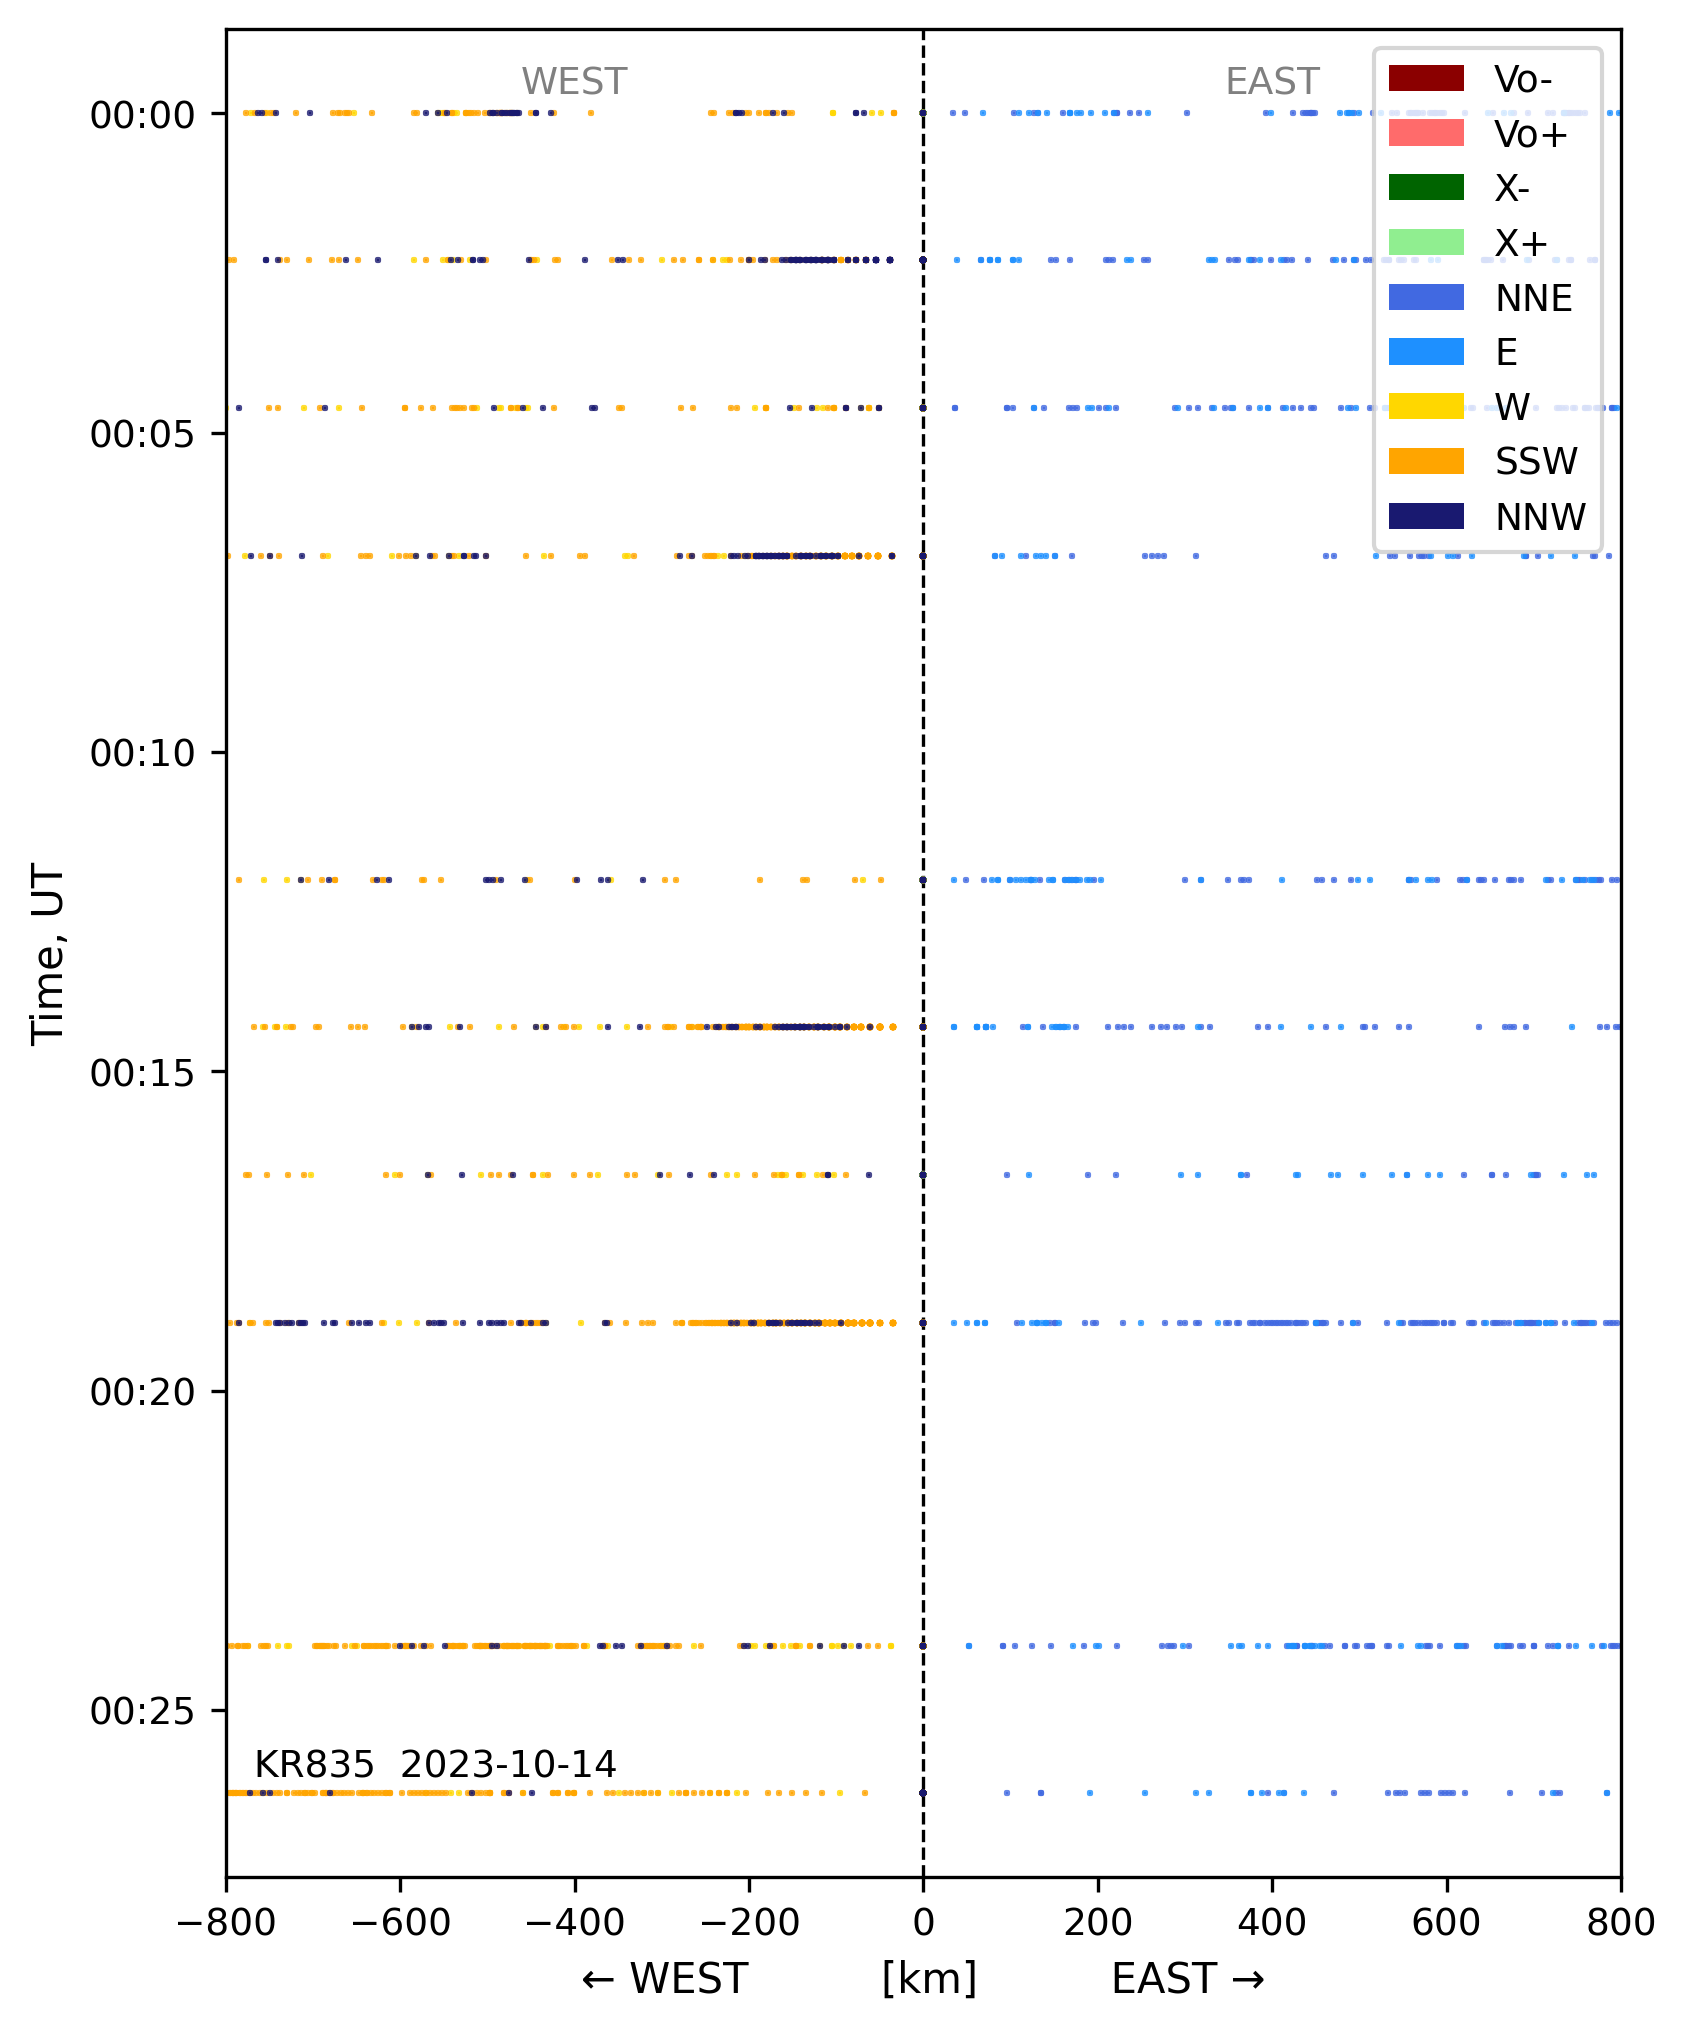
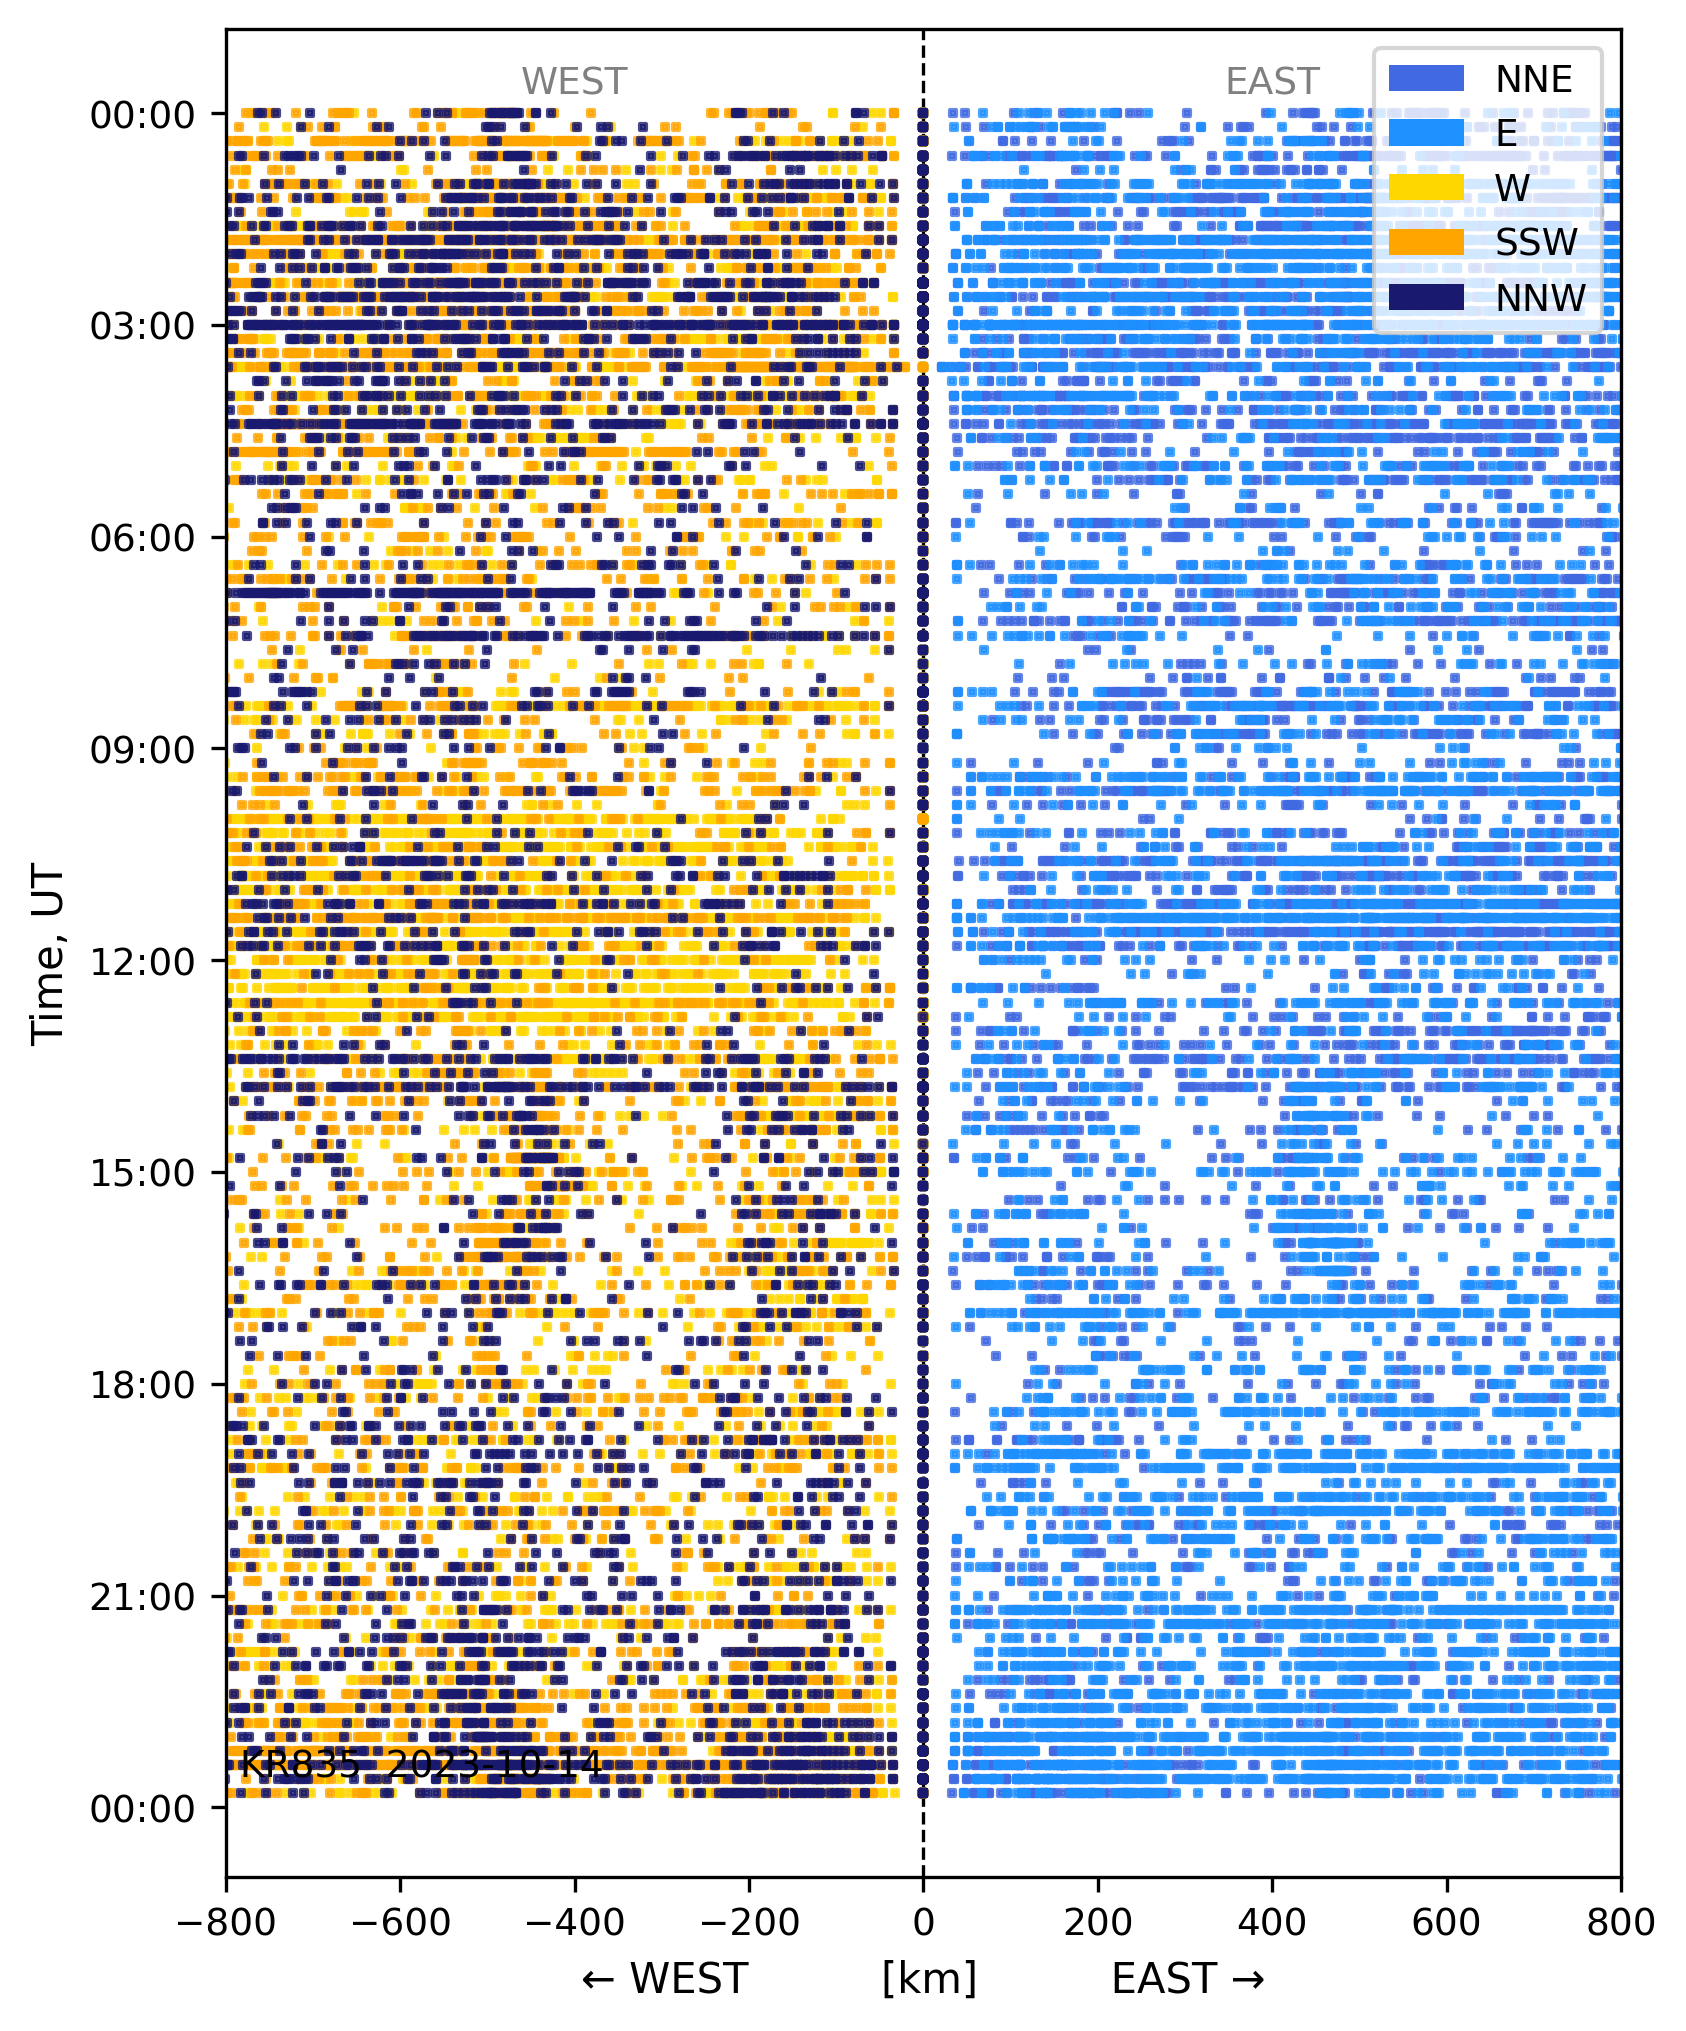
Update codebase: docs/examples/figures/rsf_directogram_KR835_daily.png examples/digisonde/rsf_direction_ionogram.py pynasonde/digisonde/digi_plots.py 0 file(s) changed — docs/examples/figures/rsf_directogram_KR835_daily.png examples/digisonde/rsf_direction_ionogram.py pynasonde/digisonde/digi_plots.

diff --git a/pynasonde/digisonde/digi_plots.py b/pynasonde/digisonde/digi_plots.py
@@ -1616,10 +1616,6 @@ class RsfIonogram(DigiPlots):
             del_ticks: If ``True``, suppress axis ticks.
         """
         DIRECTION_COLORS = {
-            "Vo-": "#8B0000",
-            "Vo+": "#FF6B6B",
-            "X-": "#006400",
-            "X+": "#90EE90",
             "NNE": "#4169E1",
             "E": "#1E90FF",
             "W": "#FFD700",
@@ -1649,37 +1645,53 @@ class RsfIonogram(DigiPlots):
         ax.set_ylabel(ylabel, fontdict={"size": self.font_size})
         ax.axvline(0, color="k", lw=0.8, ls="--", zorder=1)
 
-        df = df.copy()
+        # ── select only needed columns before copying to minimise peak memory ──
+        needed = ["date", "amplitude", "azm_directions", "pol", "dop_num", hparam]
+        df = df[needed].copy()
         df["amplitude"] = df["amplitude"].replace(0, np.nan)
-        df = df[df["amplitude"] >= lower_plimit]
-        df["_category"] = df.apply(_classify, axis=1)
-        df = df[df["_category"].notna()]
+        df = df[df["amplitude"] >= lower_plimit].reset_index(drop=True)
 
-        # Convert date to matplotlib float for y-axis
+        # ── vectorised classify (replaces row-wise apply) ─────────────────────
+        azm = df["azm_directions"]
+        mask_N   = azm == "N"
+        mask_O   = df["pol"] == "O"
+        mask_neg = df["dop_num"] < dop_split
+
+        cat = pd.Series(pd.NA, index=df.index, dtype="object")
+        cat = cat.mask(mask_N &  mask_O &  mask_neg, "Vo-")
+        cat = cat.mask(mask_N &  mask_O & ~mask_neg, "Vo+")
+        cat = cat.mask(mask_N & ~mask_O &  mask_neg, "X-")
+        cat = cat.mask(mask_N & ~mask_O & ~mask_neg, "X+")
+        for src, dst in _AZM_TO_CATEGORY.items():
+            cat = cat.mask(~mask_N & (azm == src), dst)
+        df["_category"] = cat
+        df = df[df["_category"].notna()].reset_index(drop=True)
+
+        # ── convert date to matplotlib float (no to_pydatetime() overhead) ───
         df["date"] = pd.to_datetime(df["date"], utc=True)
-        df["_t"] = mdates.date2num(df["date"].dt.to_pydatetime())
+        df["_t"] = mdates.date2num(df["date"])
 
-        # Per-ionogram H_v: group by timestamp, find H_v from peak vertical echo
-        def _compute_D(grp):
-            vert = grp[grp["azm_directions"] == "N"]
-            H_v = (
-                vert.loc[vert["amplitude"].idxmax(), hparam]
-                if not vert.empty
-                else grp[hparam].median()
-            )
-            H_i = grp[hparam].values
-            D = np.sqrt(np.maximum(H_i**2 - H_v**2, 0))
-            # Negate for west-side directions
-            mask_west = grp["_category"].isin(_WEST)
-            D = np.where(mask_west, -D, D)
-            # Vertical echoes stay at D=0
-            mask_vert = grp["_category"].isin({"Vo-", "Vo+", "X-", "X+"})
-            D = np.where(mask_vert, 0.0, D)
-            grp = grp.copy()
-            grp["_D"] = D
-            return grp
+        # ── vectorised D computation (replaces groupby.apply + per-group copy) ─
+        # Per-timestamp H_v: height of peak-amplitude vertical echo.
+        vert_mask = df["azm_directions"] == "N"
+        vert_df   = df.loc[vert_mask, ["_t", "amplitude", hparam]]
+        if not vert_df.empty:
+            peak_idx = vert_df.groupby("_t")["amplitude"].idxmax()
+            hv_map   = vert_df.loc[peak_idx].set_index("_t")[hparam]
+        else:
+            hv_map = pd.Series(dtype=float)
+        # Fallback: median height for timestamps without a vertical echo
+        median_h = df.groupby("_t")[hparam].median()
+        hv_series = median_h.copy()
+        hv_series.update(hv_map)
+        df["_H_v"] = df["_t"].map(hv_series)
 
-        df = df.groupby("_t", group_keys=False).apply(_compute_D)
+        H_i = df[hparam].to_numpy(float)
+        H_v = df["_H_v"].to_numpy(float)
+        D   = np.sqrt(np.maximum(H_i**2 - H_v**2, 0.0))
+        D   = np.where(df["_category"].isin(_WEST), -D, D)
+        D   = np.where(df["_category"].isin({"Vo-", "Vo+", "X-", "X+"}), 0.0, D)
+        df["_D"] = D
 
         legend_handles = []
         for label, color in DIRECTION_COLORS.items():
@@ -1743,7 +1755,7 @@ class RsfIonogram(DigiPlots):
 
         if text:
             ax.text(
-                0.02,
+                0.01,
                 0.05,
                 text,
                 ha="left",

diff --git a/examples/digisonde/rsf_direction_ionogram.py b/examples/digisonde/rsf_direction_ionogram.py
@@ -77,7 +77,7 @@ r.add_directogram(
     df_day,
     dlim=[-800, 800],
     lower_plimit=5,
-    ms=0.5,
+    ms=1.5,
     text="KR835  2023-10-14",
 )
 r.save("tmp/rsf_directogram_KR835_daily.png")
